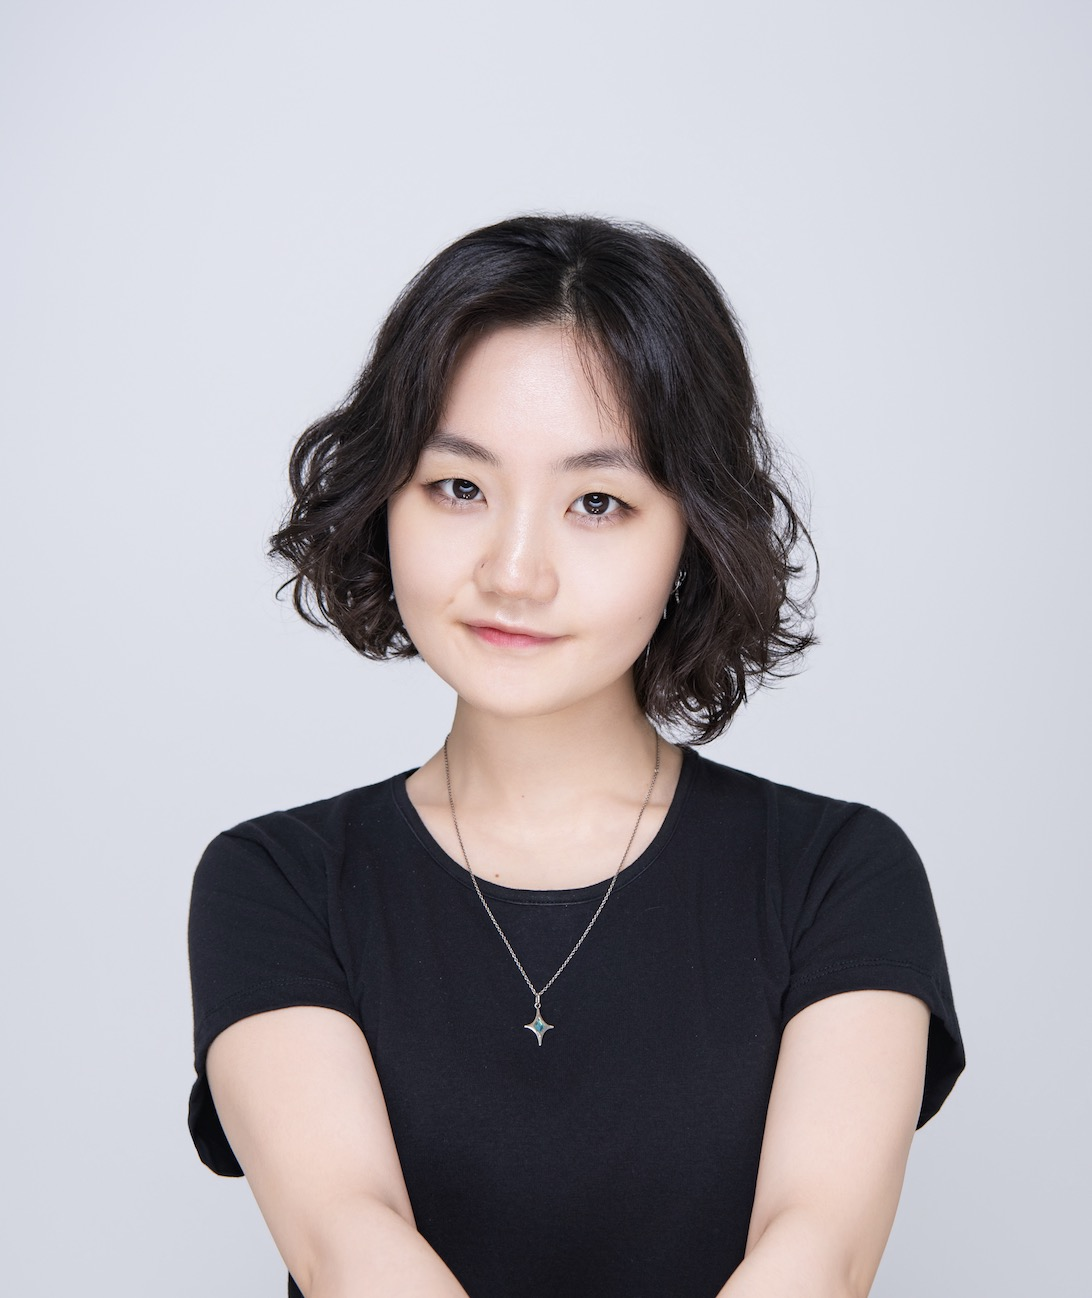
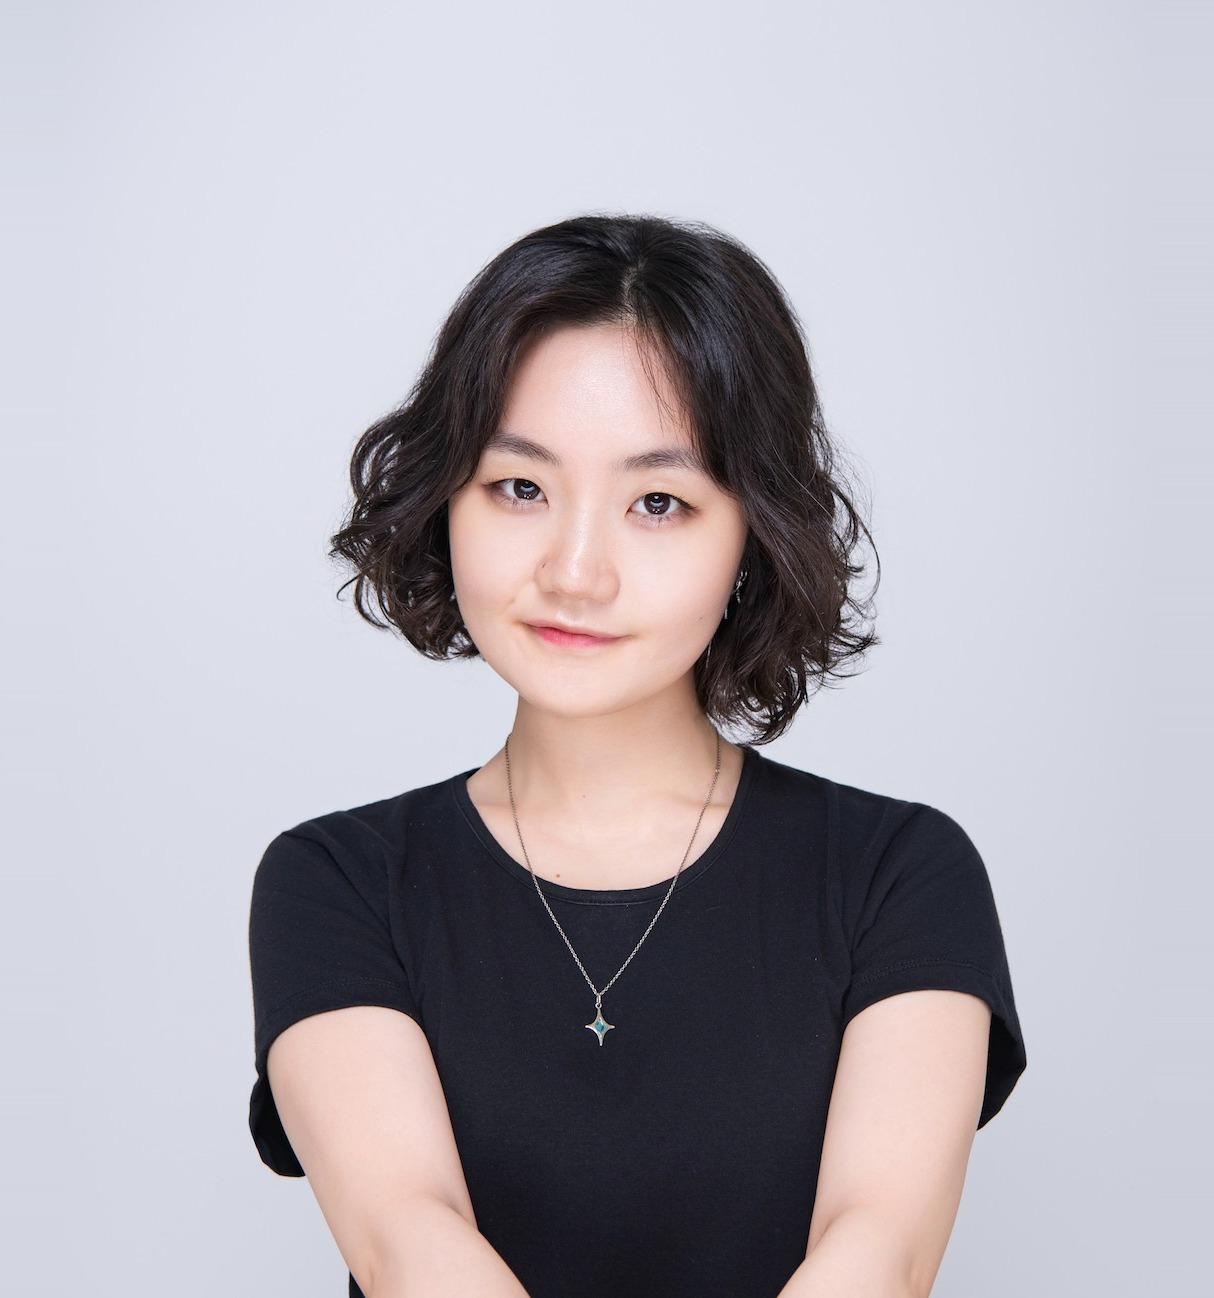
Match original portrait scale on About
Extend the plain backdrop by 61px on each side so the photo renders
~10% smaller in the card, framed like the Framer version.

diff --git a/assets/css/style.css b/assets/css/style.css
@@ -192,7 +192,7 @@ ul { margin: 0; padding: 0; }
 .card--top > img,
 .card--top > video { object-position: top; }
 .card--bottom > img { object-position: bottom; }
-.card--face > img { object-position: 50% 28%; }
+.card--face > img { object-position: 50% 46%; }
 .card--contain > img { object-fit: contain; padding: 24px; }
 .card--zoom > img { transform: scale(1.7); }
 .card--dark { background: radial-gradient(120% 90% at 50% 100%, #6b221c 0%, #2a1311 55%, #140d0c 100%); }
